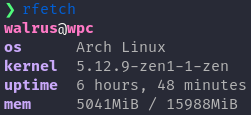
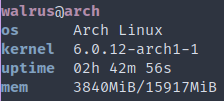
chore: updating demo picture

Changed region(s): [[0.0, 0.0, 1.0, 1.0]]

diff --git a/README.md b/README.md
@@ -1,6 +1,7 @@
 # rFetch - minimal system info fetcher
-
-![Demo](./demo.png "Demo")
+<p align="center">
+  <img src="./demo.png" alt="demo" />
+</p>
 
 A small performant system fetcher displaying only a small set of information about your system.
 
